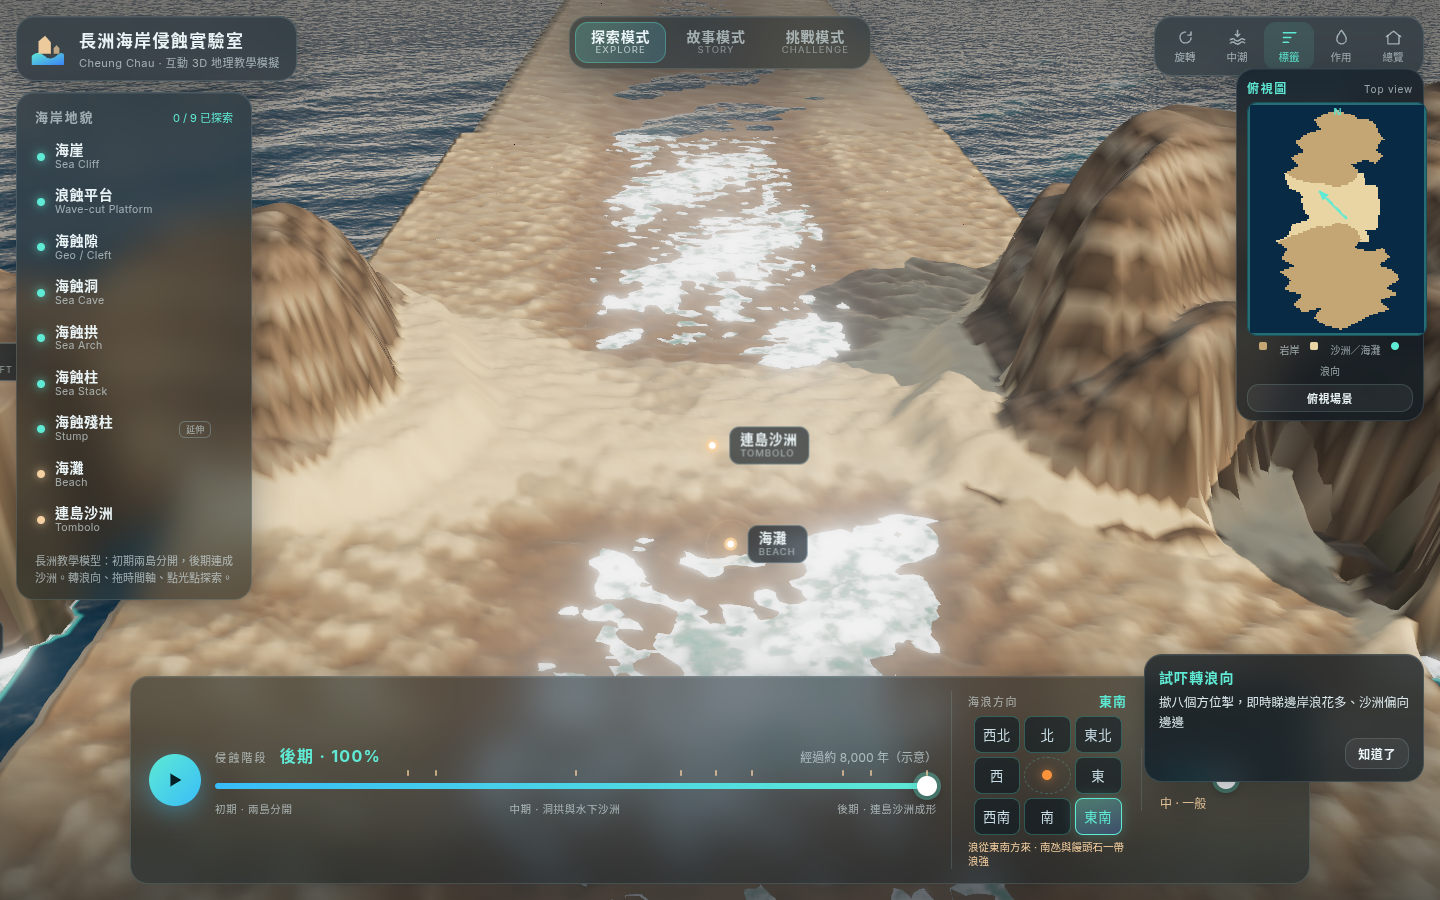
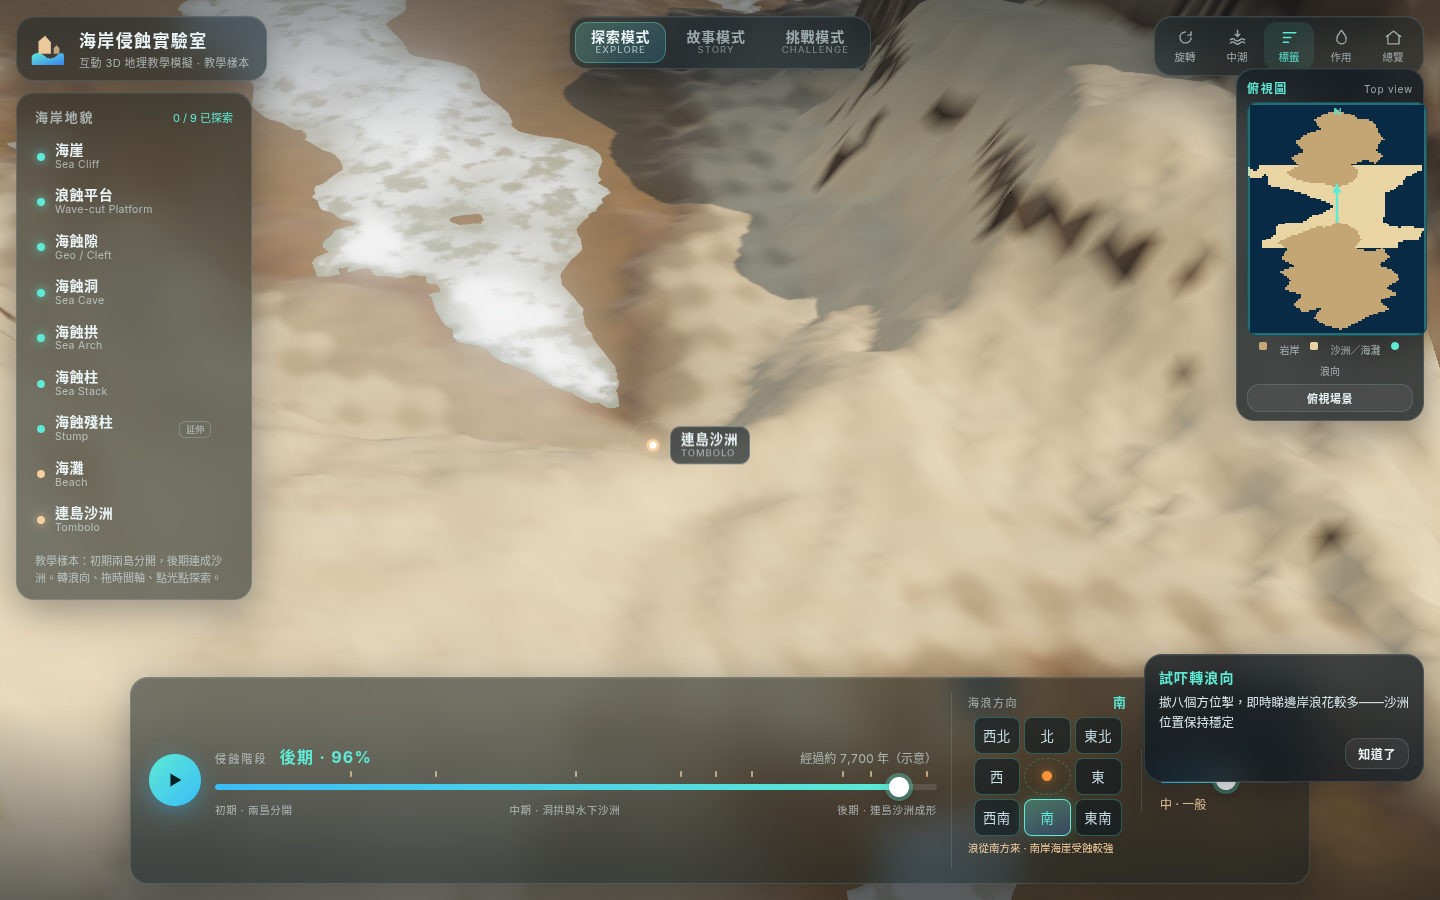
Soft fuzzy tombolo: submerged tan haze mid, dry natural join late
- Keep mid bar underwater with soft path silhouette (no hard rectangle)
- Water shader paints warm translucent sand haze over submerged bar
- Stop lifting mid sand in height map (that caused opaque cyan slabs)
- Late stage emerges dry and merges into both shores; wave dir still does not shift sand

diff --git a/src/world.ts b/src/world.ts
@@ -253,9 +253,12 @@ export function jointTrace(x: number, z: number, gx: number): number {
   return smoothstep(0.75, 0.12, Math.abs(x - gx)) * smoothstep(coast - 55, coast - 48, z) * smoothstep(coast + 1.5, coast - 0.5, z);
 }
 
-/** Tombolo crest height (m). Deeply negative = open water between islands; then submerged bar; then dry bridge. */
+/** Tombolo crest height (m). Deeply negative = open water; mid = soft submerged bar; late = dry bridge. */
 export const tomboloCrest = (s: number): number =>
-  -4.6 + 2.4 * smoothstep(0.08, 0.38, s) + 4.6 * smoothstep(0.38, 0.88, s);
+  -5.2
+  + 2.8 * smoothstep(0.08, 0.36, s)   // early→mid soft fans (~ -2.4)
+  + 2.2 * smoothstep(0.34, 0.62, s)   // mid: clear submerged bar (~ -0.2)
+  + 3.2 * smoothstep(0.58, 0.92, s);  // late: dry tombolo (~ +3.0)
 
 /** Rounded boulder landmark on the SE rocky shore (teaching prop). */
 export const MANTOU = { x: 58, z: -78, r: 4.2 };
@@ -487,78 +490,98 @@ export function terrainSample(x: number, z: number, S: Float32Array, o: number, 
   }
 
   // --- tombolo sand bridge (連島沙洲) ---
-  // Anchored on TOMB_X — grows in place and merges into BOTH rock shores.
-  // Wave direction does NOT shift the bar (avoids "sand jumping" when scrubbing / changing dir).
+  // Soft submerged haze → dry bridge. Fixed on TOMB_X (wave dir never shifts the bar).
+  // Growth: shore fans first → fuzzy mid bar under water → seamless dry join to both islands.
   const t = (z - NECK_Z0) / (NECK_Z1 - NECK_Z0);
-  const sandGate = smoothstep(-3.8, -0.4, K.crest);
-  const shoreJoin = smoothstep(-0.9, 1.35, K.crest);
-  if (t > -0.55 && t < 1.55 && sandGate > 0.012) {
+  const sandGate = smoothstep(-4.6, -1.2, K.crest);          // underwater presence
+  const midBar = smoothstep(-3.4, -0.6, K.crest);            // channel-filling soft bar
+  const shoreJoin = smoothstep(-1.1, 0.95, K.crest);         // dry land emerge (clear by late)
+  if (t > -0.65 && t < 1.65 && sandGate > 0.008) {
     const tc = clamp(t);
-    // Along-channel presence: mid-focused while submerged; full N–S span once joining shores
-    const midFocus = smoothstep(-0.05, 0.22, tc) * smoothstep(1.05, 0.78, tc);
-    const along = lerp(midFocus, 1.0, shoreJoin);
-
-    // Soft irregular shoreline (wave-accreted look — not a hard rectangle)
+    // Soft irregular shoreline (wave-accreted — never a hard rectangle)
     const edgeN =
-      0.62 * noise2(x * 0.048 + 1.7, z * 0.042)
-      + 0.38 * noise2(x * 0.12, z * 0.10 + 2.3)
-      + 0.22 * noise2(x * 0.26, z * 0.22)
-      + 0.12 * noise2(x * 0.55, z * 0.48);
+      0.55 * noise2(x * 0.042 + 1.7, z * 0.038)
+      + 0.35 * noise2(x * 0.11, z * 0.095 + 2.3)
+      + 0.22 * noise2(x * 0.24, z * 0.21)
+      + 0.14 * noise2(x * 0.52, z * 0.46)
+      + 0.08 * noise2(x * 1.1, z * 0.95);
 
-    // Fixed meandering centreline (NO leeX drift)
+    // Fixed meandering centreline (NO leeX / wave-dir drift)
     const cx = TOMB_X
-      + 3.6 * Math.sin(Math.PI * tc)
-      + 2.1 * noise2(z * 0.036, 4.1);
+      + 4.2 * Math.sin(Math.PI * tc)
+      + 2.4 * noise2(z * 0.034, 4.1)
+      + 1.1 * noise2(z * 0.09 + 2.2, 7.3);
 
-    // Soft, scalloped width — strong waist + loud shore flares (not a hard rectangle)
-    const baseHw = 6.5 + 9.0 * sandGate + 3.2 * shoreJoin;
-    const waist = 0.62 + 0.48 * Math.sin(Math.PI * tc); // narrow mid-channel, fat at ends
-    const shoreFlare = shoreJoin * (0.55 + 1.45 * (1 - midFocus));
-    const scallop = 0.55 * noise2(z * 0.09, 8.1) + 0.35 * noise2(z * 0.22 + 1.3, 3.4);
-    const hw = baseHw * waist * (1 + shoreFlare) * (1 + 0.45 * edgeN + 0.25 * scallop);
+    // Grow from BOTH shores first, then fill the mid channel (matches soft fan screenshots)
+    const shoreFans =
+      Math.pow(smoothstep(0.55, -0.18, tc), 1.15)
+      + Math.pow(smoothstep(0.45, 1.18, tc), 1.15);
+    const midFill = Math.pow(Math.sin(Math.PI * clamp(tc)), 0.85);
+    const along =
+      lerp(0.22 + 0.78 * Math.min(1, shoreFans), 1.0, midBar * 0.85)
+      * lerp(0.35 + 0.65 * midFill, 1.0, shoreJoin);
 
-    const dx = (x - cx) / Math.max(3.2, hw);
+    // Soft scalloped PATH — fat at rock toes, NARROW fuzzy waist in mid-channel (not a rectangle)
+    const baseHw = 4.2 + 5.5 * sandGate + 3.8 * midBar + 5.5 * shoreJoin;
+    // |2t-1|^p → 1 at ends, 0 at mid  ⇒  wide fans at shores, thin soft path in centre
+    const waist = 0.38 + 0.78 * Math.pow(Math.abs(2 * tc - 1), 1.15);
+    const shoreFlare = (0.55 + 1.8 * shoreJoin + 0.9 * sandGate * (1 - midBar)) * Math.pow(Math.abs(2 * tc - 1), 0.9);
+    const scallop = 0.85 * noise2(z * 0.07, 8.1) + 0.55 * noise2(z * 0.17 + 1.3, 3.4) + 0.35 * noise2(z * 0.31, 1.9);
+    const hw = baseHw * waist * (1 + shoreFlare) * (1 + 0.7 * edgeN + 0.4 * scallop);
+
+    const dx = (x - cx) / Math.max(2.8, hw);
     const dxAbs = Math.abs(dx);
 
-    // Soft mound crest (no flat mesa) + gentle beach face
-    const crestProfile = Math.pow(Math.max(0, 1 - Math.pow(dxAbs, 1.65)), 2.15);
-    const wash = smoothstep(1.65, 0.35, dxAbs);
+    // Soft mound (no mesa) — very soft falloff for "fuzzy haze" underwater look
+    const crestProfile = Math.pow(Math.max(0, 1 - Math.pow(dxAbs, 1.35)), 2.6);
+    const wash = smoothstep(1.85, 0.25, dxAbs);
     const micro =
-      S[o + 12] * (1.0 + 0.8 * sandGate)
-      + 0.55 * noise2(x * 0.38, z * 0.34) * sandGate
-      + 0.28 * noise2(x * 0.95, z * 0.88) * shoreJoin
-      + 0.15 * noise2(x * 2.1, z * 1.9) * shoreJoin;
+      S[o + 12] * (0.7 + 0.5 * sandGate)
+      + 0.45 * noise2(x * 0.34, z * 0.30) * sandGate
+      + 0.25 * noise2(x * 0.85, z * 0.78) * midBar
+      + 0.18 * noise2(x * 1.9, z * 1.7) * shoreJoin;
 
-    // Meet rock toes — sand must climb onto rocky shore (kill water gap)
-    const nearS = smoothstep(1.5, 0.65, ds);
-    const nearN = smoothstep(1.5, 0.65, dn);
+    // Meet rock toes — late stage climbs onto rocky shore (kill water gap)
+    const nearS = smoothstep(1.55, 0.55, ds);
+    const nearN = smoothstep(1.55, 0.55, dn);
     const toeMeet = Math.max(nearS, nearN) * shoreJoin;
-    const endBoost = shoreJoin * (smoothstep(0.42, -0.12, tc) + smoothstep(0.58, 1.12, tc));
+    const endBoost = shoreJoin * (smoothstep(0.48, -0.15, tc) + smoothstep(0.52, 1.15, tc));
 
-    // Dry crest clearly above water once joined
-    const dryLift = Math.max(0, K.crest) * 0.55 + 0.95 * shoreJoin;
-    const ht = (K.crest + dryLift) * crestProfile
-      + wash * Math.max(-0.35, K.crest * 0.28 - 0.15)
+    // Mid: soft submerged haze. Late: clearly dry beach crest joining both shores.
+    const subH = lerp(-2.7, -1.15, midBar) + 0.4 * noise2(x * 0.18, z * 0.16);
+    const dryLift = Math.max(0, K.crest) * 0.55 + 1.35 * shoreJoin;
+    const targetH = lerp(subH, Math.max(1.8, K.crest + dryLift), shoreJoin);
+    const ht = targetH * crestProfile
+      + wash * Math.max(-1.2, targetH * 0.32 - 0.5)
       + micro
-      + toeMeet * (4.0 + Math.max(0, K.crest) * 1.1)
-      + endBoost * 2.4;
+      + toeMeet * (4.8 + Math.max(0, K.crest) * 1.3)
+      + endBoost * 3.0
+      + (1 - shoreJoin) * sandGate * Math.min(1, shoreFans) * nearS * 1.15
+      + (1 - shoreJoin) * sandGate * Math.min(1, shoreFans) * nearN * 1.15;
 
-    // Soft lateral + along-channel feather (no hard cut ends)
-    const lateral = smoothstep(1.55, 0.48, dxAbs);
-    const endFeather = smoothstep(-0.35, 0.08, tc) * smoothstep(1.35, 0.92, tc);
+    // Fuzzy lateral edge — extra noise so mid path is not a hard rectangle
+    const edgeWobble = 0.55 * noise2(x * 0.09 + z * 0.04, 5.5) + 0.35 * noise2(x * 0.22, z * 0.18);
+    const lateral = Math.pow(smoothstep(1.85 + 0.55 * edgeWobble, 0.18 + 0.2 * Math.abs(edgeWobble), dxAbs), 1.25);
+    const endFeather = smoothstep(-0.45, 0.05, tc) * smoothstep(1.45, 0.95, tc);
     const presence = Math.max(
-      sandGate * (0.15 + 0.85 * along) * endFeather,
-      Math.max(toeMeet, endBoost) * sandGate
+      sandGate * (0.1 + 0.9 * along) * endFeather,
+      Math.max(toeMeet, endBoost) * Math.max(sandGate, shoreJoin * 0.55),
+      sandGate * Math.min(1, shoreFans) * Math.max(nearS, nearN) * 0.9
     ) * lateral;
-    let ht2 = lerp(Math.min(seabed, -1.5), ht, presence);
+    let ht2 = lerp(Math.min(seabed, -2.2), ht, presence);
+    // Late: force dry crest above water across the whole soft path
+    if (shoreJoin > 0.35) {
+      ht2 = Math.max(ht2, (1.35 + 1.1 * shoreJoin) * presence);
+    }
     // When joining shores, never leave a water trough between sand and rock
-    if (toeMeet > 0.15) {
-      const pad = 0.9 + 1.6 * toeMeet;
+    if (toeMeet > 0.1) {
+      const pad = 1.15 + 2.0 * toeMeet;
       ht2 = Math.max(ht2, pad * toeMeet);
     }
     if (ht2 > h + 0.01) {
       h = ht2;
-      m = ht2 > -2.2 ? MAT_SAND : MAT_SEABED;
+      // Mark as sand even when deep so water shader can paint soft tan haze
+      m = ht2 > -3.4 ? MAT_SAND : MAT_SEABED;
     }
   }
 
@@ -582,12 +605,12 @@ export function terrainSample(x: number, z: number, S: Float32Array, o: number, 
     }
   }
 
-  // --- west lagoon (shallow pocket; anchored — no wave-dir jump) ---
-  if (t > 0.12 && t < 0.88 && x < TOMB_X - 4) {
-    const bay = bump(x, TOMB_X - 20, 20) * bump(z, 12, 38);
-    if (bay > 0.04) {
-      const hb = -0.6 - 2.2 * bay + 0.55 * sandGate + S[o + 11];
-      if (hb > h && h < 1.8) { h = Math.max(h, hb); if (h < 0.35) m = h > -1.5 ? MAT_SAND : MAT_SEABED; }
+  // --- west lagoon (soft shallow pocket west of path — only after mid bar; never a sand rectangle) ---
+  if (t > 0.18 && t < 0.82 && x < TOMB_X - 8 && midBar > 0.25) {
+    const bay = bump(x, TOMB_X - 22, 14) * bump(z, 14, 28) * (0.7 + 0.3 * noise2(x * 0.08, z * 0.08));
+    if (bay > 0.08) {
+      const hb = -1.4 - 1.6 * bay + 0.35 * midBar + S[o + 11];
+      if (hb > h && h < 1.2) { h = Math.max(h, hb); m = MAT_SEABED; }
     }
   }
 
@@ -636,22 +659,23 @@ export function planCell(x: number, z: number, s: number, waveDir = 180): number
   if (tip < 1.05 && z > 85) return 1;
   const K = stageConsts(s, waveDir);
   const t = (z - NECK_Z0) / (NECK_Z1 - NECK_Z0);
-  const sandGate = smoothstep(-3.8, -0.4, K.crest);
-  const shoreJoin = smoothstep(-0.9, 1.35, K.crest);
-  if (t > -0.35 && t < 1.35 && sandGate > 0.06) {
+  const sandGate = smoothstep(-4.6, -1.2, K.crest);
+  const midBar = smoothstep(-3.4, -0.6, K.crest);
+  const shoreJoin = smoothstep(-1.1, 0.95, K.crest);
+  if (t > -0.45 && t < 1.45 && sandGate > 0.04) {
     const tc = clamp(t);
-    const midFocus = smoothstep(-0.05, 0.22, tc) * smoothstep(1.05, 0.78, tc);
-    const along = lerp(midFocus, 1.0, shoreJoin);
-    const edgeN = 0.5 * noise2(x * 0.048 + 1.7, z * 0.042) + 0.28 * noise2(x * 0.12, z * 0.1);
-    const cx = TOMB_X + 3.6 * Math.sin(Math.PI * tc) + 2.1 * noise2(z * 0.036, 4.1);
-    const baseHw = 7.2 + 10.5 * sandGate + 4.0 * shoreJoin;
-    const shoreFlare = shoreJoin * (0.35 + 1.1 * (1 - midFocus));
-    const hw = baseHw * (0.86 + 0.3 * Math.sin(Math.PI * tc)) * (1 + shoreFlare) * (1 + 0.28 * edgeN);
-    const dx = (x - cx) / Math.max(3.5, hw);
-    const nearS = smoothstep(1.35, 0.85, massDist(x, z, SOUTH_RING, 11));
-    const nearN = smoothstep(1.35, 0.85, massDist(x, z, NORTH_RING, 10));
+    const shoreFans = Math.pow(smoothstep(0.55, -0.18, tc), 1.15) + Math.pow(smoothstep(0.45, 1.18, tc), 1.15);
+    const along = lerp(0.22 + 0.78 * Math.min(1, shoreFans), 1.0, midBar * 0.85);
+    const edgeN = 0.5 * noise2(x * 0.042 + 1.7, z * 0.038) + 0.28 * noise2(x * 0.11, z * 0.095);
+    const cx = TOMB_X + 4.2 * Math.sin(Math.PI * tc) + 2.4 * noise2(z * 0.034, 4.1);
+    const baseHw = 4.5 + 5.5 * sandGate + 3.5 * midBar + 5.0 * shoreJoin;
+    const shoreFlare = (0.4 + 1.5 * shoreJoin) * Math.pow(Math.abs(2 * tc - 1), 0.9);
+    const hw = baseHw * (0.38 + 0.78 * Math.pow(Math.abs(2 * tc - 1), 1.15)) * (1 + shoreFlare) * (1 + 0.4 * edgeN);
+    const dx = (x - cx) / Math.max(3.0, hw);
+    const nearS = smoothstep(1.45, 0.7, massDist(x, z, SOUTH_RING, 11));
+    const nearN = smoothstep(1.45, 0.7, massDist(x, z, NORTH_RING, 10));
     const toeMeet = Math.max(nearS, nearN) * shoreJoin;
-    if ((Math.abs(dx) < 1.15 * (0.35 + 0.65 * along) || toeMeet > 0.3) && K.crest > -2.4) return 2;
+    if ((Math.abs(dx) < 1.25 * (0.3 + 0.7 * along) || toeMeet > 0.25 || (sandGate > 0.2 && Math.max(nearS, nearN) * shoreFans > 0.45)) && K.crest > -3.8) return 2;
   }
   if (t > -0.05 && t < 1.05 && K.wb > 3.5) {
     const tc = clamp(t);

diff --git a/src/terrainCore.ts b/src/terrainCore.ts
@@ -22,20 +22,28 @@ export function colorFor(out: RGB, x: number, z: number, h: number, m: number, n
   const n = 0.5 + 0.5 * noise2(x * 0.15, z * 0.15);
   let a, b, t: number;
   if (m === MAT_SAND) {
-    // Fine wave-accreted grain + subtle swash ripples (not a flat tiled slab)
+    // Wave-accreted grain: deep submerged = soft warm tan haze; dry = beach sand
     const grain = 0.5 + 0.5 * noise2(x * 0.7, z * 0.7);
     const grain2 = 0.5 + 0.5 * noise2(x * 1.8 + 2.1, z * 1.6);
     const ripple = 0.5 + 0.5 * Math.sin(x * 1.15 + z * 0.4 + noise2(x * 0.22, z * 0.2) * 2.4);
-    if (h > 0.55) {
+    if (h > 0.35) {
       a = PAL.sandWet; b = PAL.sand;
-      t = smoothstep(0.55, 1.9, h) * (0.72 + 0.18 * grain + 0.1 * ripple);
-    } else {
+      t = smoothstep(0.35, 1.9, h) * (0.72 + 0.18 * grain + 0.1 * ripple);
+    } else if (h > -1.2) {
+      // shallow submerged — brighter tan so it reads as soft path through water
       a = PAL.sandDeep; b = PAL.sandWet;
-      t = smoothstep(-2.6, 0.55, h) * (0.68 + 0.2 * grain + 0.12 * grain2);
+      t = smoothstep(-1.2, 0.35, h) * (0.55 + 0.25 * grain + 0.15 * grain2);
+      out[0] = lerp(a.r, b.r, t); out[1] = lerp(a.g, b.g, t); out[2] = lerp(a.b, b.b, t);
+      // warm underwater glow (fuzzy sand look)
+      out[0] = Math.min(1, out[0] * 1.08 + 0.06); out[1] = Math.min(1, out[1] * 1.02 + 0.04); out[2] = out[2] * 0.92;
+      return out;
+    } else {
+      // deep submerged bar — muted sandy seabed, still readable as tan path
+      a = PAL.seabedShallow; b = PAL.sandDeep;
+      t = smoothstep(-3.6, -1.2, h) * (0.6 + 0.25 * grain);
     }
     out[0] = lerp(a.r, b.r, t); out[1] = lerp(a.g, b.g, t); out[2] = lerp(a.b, b.b, t);
-    // dry crest highlight + wet swash band
-    const dry = smoothstep(0.4, 1.5, h) * (0.08 + 0.1 * grain2);
+    const dry = smoothstep(0.25, 1.5, h) * (0.08 + 0.1 * grain2);
     out[0] = Math.min(1, out[0] + dry * 0.12); out[1] = Math.min(1, out[1] + dry * 0.1); out[2] = Math.min(1, out[2] + dry * 0.07);
     const swash = smoothstep(0.55, -0.05, h) * smoothstep(-1.6, 0.15, h) * (0.12 + 0.1 * ripple);
     out[0] = lerp(out[0], PAL.sandWet.r, swash); out[1] = lerp(out[1], PAL.sandWet.g, swash); out[2] = lerp(out[2], PAL.sandWet.b, swash);
@@ -161,10 +169,17 @@ export class TerrainCore {
       } else if (h < 3) {
         if (x > HX - 20 && x < HX + 20 && z > 85 && z < 152 && solidAt(x, z)) h = 4;
       }
-      // Bias dry/wet sand up in the water depth map so foam never "washes through" the tombolo
-      if (this.inner.mats[v] === MAT_SAND && h > -1.4) h = Math.max(h, 0.85 + Math.max(0, h) * 0.35);
+      // Only bias EMERGENT dry sand (late tombolo) — never lift mid submerged bar or it becomes a hard rectangle
+      const isSand = this.inner.mats[v] === MAT_SAND;
+      if (isSand && h > 0.2) h = Math.max(h, 0.45 + h * 0.2);
       const e = Math.max(0, Math.min(255, Math.round(((h + 28) / 72) * 255)));
-      tex[v * 4] = e; tex[v * 4 + 1] = e; tex[v * 4 + 2] = e; tex[v * 4 + 3] = 255;
+      // G = soft sand mask for water shader (fuzzy underwater tan path)
+      let sandAmt = 0;
+      if (isSand) {
+        // mid submerged bar must tint strongly; dry crest fades so terrain mesh shows
+        sandAmt = Math.round(255 * smoothstep(-3.2, -0.8, h) * smoothstep(1.2, 0.05, h));
+      }
+      tex[v * 4] = e; tex[v * 4 + 1] = sandAmt; tex[v * 4 + 2] = e; tex[v * 4 + 3] = 255;
     }
     return tex;
   }

diff --git a/src/water.ts b/src/water.ts
@@ -40,9 +40,11 @@ float fbm(vec2 p){ float s=0.0, a=0.5; for(int i=0;i<4;i++){ s+=a*vnoise(p); p=p
 
 const LAND = /* glsl */ `
 uniform sampler2D uHeight; uniform vec3 uHeightRect;
-float landH(vec2 xz){ vec2 uv=(xz-uHeightRect.xy)/uHeightRect.z;
-  if(uv.x<0.0||uv.y<0.0||uv.x>1.0||uv.y>1.0) return -16.0;
-  return texture2D(uHeight, uv).r*72.0-28.0; }
+vec4 landSample(vec2 xz){ vec2 uv=(xz-uHeightRect.xy)/uHeightRect.z;
+  if(uv.x<0.0||uv.y<0.0||uv.x>1.0||uv.y>1.0) return vec4(0.0,0.0,0.0,0.0);
+  return texture2D(uHeight, uv); }
+float landH(vec2 xz){ return landSample(xz).r*72.0-28.0; }
+float landSand(vec2 xz){ return landSample(xz).g; } // soft submerged sand mask
 `;
 
 const vert = /* glsl */ `
@@ -112,9 +114,18 @@ void main(){
   sky += uSunColor*pow(max(dot(R,uSunDir),0.0), 12.0)*0.35;
   float dt = smoothstep(0.0, 10.0, depth);
   vec3 body = mix(uShallow, uDeep, dt);
-  // light scattering through wave crests
-  body += uShallow*0.35*smoothstep(0.2, 1.0, vCrest)*max(dot(uSunDir, -V)*0.5+0.5, 0.0);
-  vec3 col = mix(body, sky, fres*0.85);
+  // Soft fuzzy underwater sand PATH — warm tan haze wins over cyan shallows; frayed edges
+  float sandM = landSand(vWorld.xz);
+  float sandVis = sandM * smoothstep(4.5, 0.4, depth);
+  float sandNoise = 0.3 + 0.45*fbm(q*0.06 + vec2(3.1, 7.7)) + 0.3*fbm(q*0.2 + vec2(9.2, 1.4));
+  sandVis = pow(clamp(sandVis * sandNoise, 0.0, 1.0), 1.05);
+  vec3 sandTint = vec3(0.86, 0.72, 0.48); // warm tan
+  vec3 sandDeep = vec3(0.55, 0.50, 0.34);
+  vec3 sandCol = mix(sandDeep, sandTint, clamp(1.15 - depth*0.35, 0.0, 1.0));
+  // Prefer tan over default cyan shallow so mid tombolo looks sandy, not a teal slab
+  body = mix(body, sandCol, clamp(sandVis * 0.92, 0.0, 1.0));
+  body += uShallow*0.28*smoothstep(0.2, 1.0, vCrest)*max(dot(uSunDir, -V)*0.5+0.5, 0.0)*(1.0 - 0.55*sandVis);
+  vec3 col = mix(body, sky, fres*0.8*(1.0 - 0.4*sandVis));
   vec3 H = normalize(uSunDir + V);
   float spec = pow(max(dot(N,H),0.0), 600.0)*5.0 + pow(max(dot(N,H),0.0), 60.0)*0.25;
   col += uSunColor*spec;
@@ -134,7 +145,9 @@ void main(){
   foam *= smoothstep(-0.2, 0.35, depth); // kill foam on dry sand crest
   col = mix(col, uFoam, foam);
   float alpha = mix(0.42, 0.95, smoothstep(0.0, 5.0, depth));
-  alpha = max(max(alpha, foam), fres);
+  // Keep mid tombolo water translucent so soft sand path reads as underwater haze
+  alpha = mix(alpha, mix(0.28, 0.55, smoothstep(0.0, 2.2, depth)), sandVis*0.75);
+  alpha = max(max(alpha, foam), fres*(1.0 - 0.25*sandVis));
   float fog = 1.0 - exp(-pow(uFogDensity*dist, 2.0));
   col = mix(col, uFogColor, fog);
   alpha = mix(alpha, 1.0, fog);

diff --git a/src/landforms.ts b/src/landforms.ts
@@ -279,10 +279,10 @@ export function landformState(id: LandformId, s: number, out = new THREE.Vector3
       // Mid-channel fixed anchor
       const z = (NECK_Z0 + NECK_Z1) * 0.55;
       let note: string;
-      if (c < -3.2) note = '初期：南北兩島完全分開，中間是開闊水道';
-      else if (c < -0.6) note = '中期：水下沙洲正在堆積，低潮時隱約可見';
-      else if (c < 0.6) note = '沙洲接近露出水面，兩島快將相連';
-      else note = '後期：連島沙洲已露出，南北兩島連成啞鈴形';
+      if (c < -3.6) note = '初期：南北兩島完全分開，中間是開闊水道';
+      else if (c < -1.0) note = '中期：柔軟水下沙洲開始堆積，半透明可見';
+      else if (c < 0.8) note = '沙洲增高接近水面，兩島快將相連';
+      else note = '後期：連島沙洲已露出，自然接岸連成啞鈴形';
       return {
         present: true, pos: out.set(TOMB_X, Math.max(1.4, c + 1.8), z),
         note,
